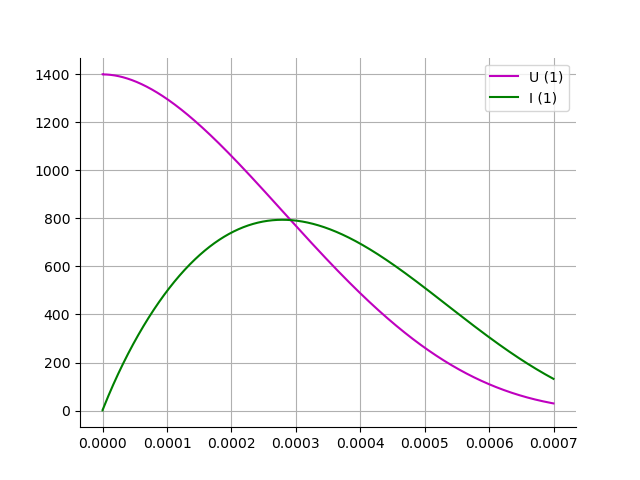
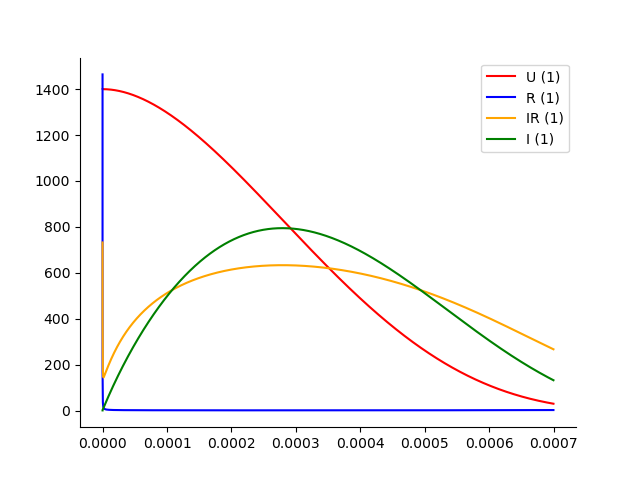
---

diff --git a/lab_02/main.py b/lab_02/main.py
@@ -10,15 +10,14 @@ from tools import (
     print_result_like_table
 )
 
+# Находим функции, используя интерполяцию на данные в тз таблицы
+T0 = Interpolation(Constants.I, Constants.T0)
+m = Interpolation(Constants.I, Constants.m)
+sigma = Interpolation(Constants.T, Constants.Sigma)
+
 
 def integrand_expression(x, I):
     """ Используется в функции Rp"""
-
-    # Находим функции, используя интерполяцию на данные в тз таблицы
-    T0 = Interpolation(Constants.I, Constants.T0)
-    m = Interpolation(Constants.I, Constants.m)
-    sigma = Interpolation(Constants.T, Constants.Sigma)
-
     Tw = Constants.Tw
     return x * sigma(T0(I) + (Tw - T0(I)) * x ** m(I))
 
@@ -49,21 +48,29 @@ def wrap_with_time(r_obj, order_accuracy):
     return i_res, u_res, end - start
 
 
+def wrap_one_calculate(r_obj, order_accuracy):
+    I, U, T = wrap_with_time(r_obj, order_accuracy)
+
+    R = [(i[0], Rp(math.fabs(i[1]))) for i in I]
+    IR = [(i[0], R[ind][1] * i[1]) for ind, i in enumerate(I)]
+
+    # _T0 = [(i[0], T0(math.fabs(i[1]))) for i in I]
+    # draw_xy_graph(_T0, color='orange', label=f'T0 ({order_accuracy})')
+
+    draw_xy_graph(U, color='red', label=f'U ({order_accuracy})')
+    draw_xy_graph(R, color='blue', label=f'R ({order_accuracy})')
+    draw_xy_graph(IR, color='orange', label=f'IR ({order_accuracy})')
+    draw_xy_graph(I, color='green', label=f'I ({order_accuracy})', show=True)
+
+    return T
+
+
 def main():
     r_obj = RungeKutta(dIdt, dUdt, 0, 0.5, 1400, 700e-6, 0.5e-6)
 
-    i1, u1, t1 = wrap_with_time(r_obj, 1)
-    i2, u2, t2 = wrap_with_time(r_obj, 2)
-    i4, u4, t4 = wrap_with_time(r_obj, 4)
-
-    draw_xy_graph(u1, color='red', label='U (1)')
-    draw_xy_graph(i1, color='green', label='I (1)', show=True)
-
-    draw_xy_graph(u2, color='orange', label='U (2)')
-    draw_xy_graph(i2, color='blue', label='I (2)', show=True)
-
-    draw_xy_graph(u4, color='magenta', label='U (4)')
-    draw_xy_graph(i4, color='purple', label='I (4)', show=True)
+    t1 = wrap_one_calculate(r_obj, 1)
+    t2 = wrap_one_calculate(r_obj, 2)
+    t4 = wrap_one_calculate(r_obj, 4)
 
     print_result_like_table(
         '\nВРЕМЯ ВЫПОЛНЕНИЯ',

diff --git a/lab_02/readme.md b/lab_02/readme.md
@@ -4,14 +4,38 @@
 
 <img src="img/time.png">
 
-### Рунге-Кутт 1
+### Общий график 
 
-<img src="img/runge_kutt_1.png">
-
-### Рунге-Кутт 2
-
-<img src="img/runge_kutt_2.png">
-
-### Рунге-Кутт 4
+Получается одинаковым (визуально) для всех порядков точности
 
 <img src="img/runge_kutt_4.png">
+
+
+
+### Контроль результатов
+
+1. Разработать программу, провести выбор шага по времени, **обеспечивающего относительную погрешность 0.001**
+
+   > программу разработали, но как искать погрешность это вопрос открытый 👀
+
+2. Построить графики зависимости от времени импульса t: при заданных выше параметрах. Продемонстрировать, **как влияет выбор метода на шаг сетки**
+
+   > опять же графики построили, но как влияет выбор метода 👀
+
+3.  График зависимости `I(t)` при `Rk * Rp = 0` . Обратить внимание на то, что в этом случае колебания тока будут не затухающими. Сравнить с аналитическим решением
+
+   > ⁉ вообще не сделано
+
+4. График зависимости `I(t)` при больших сопротивлениях, например, `Rk = 200 Ом` в интервале значений t 0-20 мкс
+
+   > ⁉ вообще не сделано
+
+
+
+### Контрольные вопросы
+
+1. Какие способы тестирования программы можно предложить?
+
+   > в прод выкатим, там посмотрим
+
+2. 
